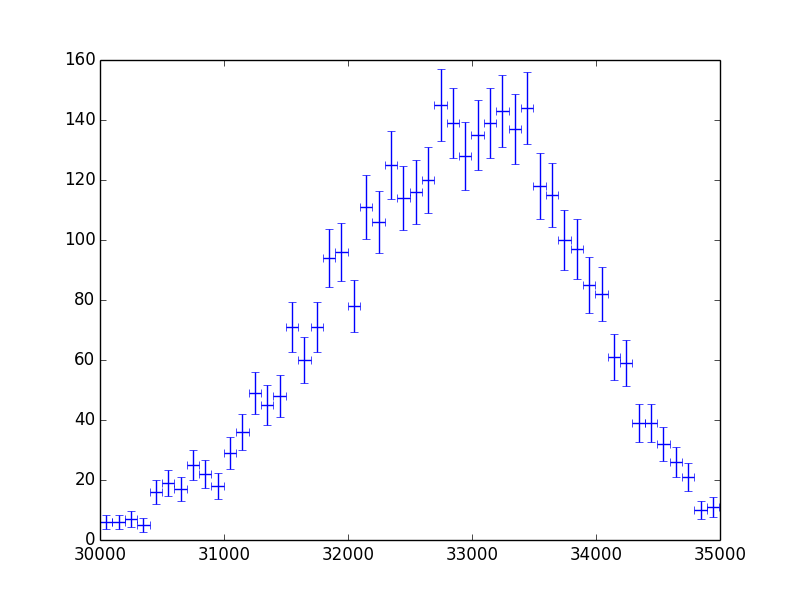
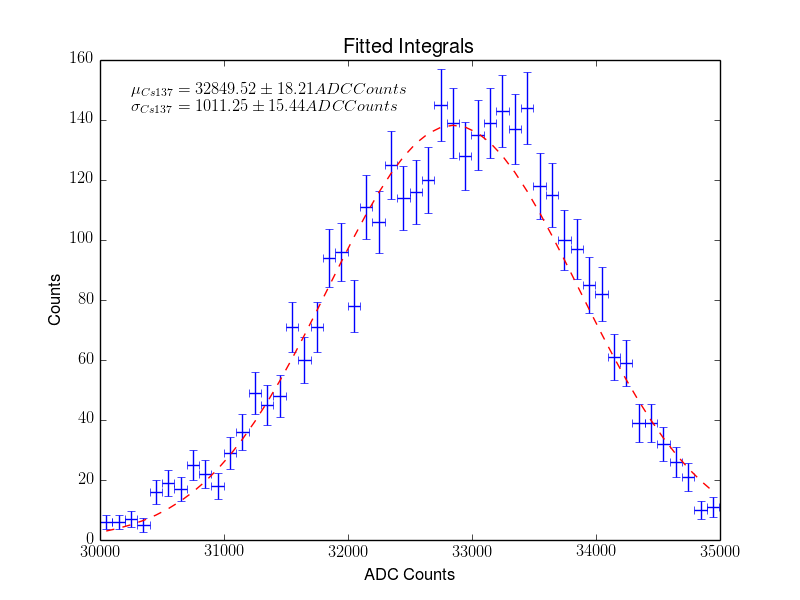
added labels to graph

diff --git a/final/fit_spectrum.py b/final/fit_spectrum.py
@@ -1,9 +1,10 @@
 #! usr/bin/python
 
-import matplotlib.pyplot as plt
 import pickle
 import numpy as np
-import emceeGaussFit2 as gfit
+import emceeGaussFit as gfit
+import matplotlib.pyplot as plt
+from matplotlib import rc
 
 ################################################################################
 ############################## PREPARING ARRAY #################################
@@ -27,13 +28,22 @@ yErrs = np.array([ x**0.5 for x in n ])
 # numbers based on looking at graph
 guess = (140, 33000, 879)
 a, mu, sigma, a_std, mu_std, sigma_std = gfit.getStats(guess, binMids, n, yErrs)
-print(a, mu, sigma)
-print(a_std, mu_std, sigma_std)
+gauss = gfit.gauss((a, mu, sigma), binMids)
 
 ################################################################################
 ################################# PLOTTING #####################################
 
+resultsStr = ('$\mu_{Cs137}=%.2f\pm%.2f ADC Counts$\n$\sigma_{Cs137}='
+			  '%.2f\pm%.2f ADC Counts$'%(mu, mu_std, sigma, sigma_std))
 plt.figure(1)
-plt.subplot(111)
-plt.errorbar(binMids, n, fmt=' ',xerr = binWidth, yerr = yErrs)
+plt.rc('font',**{'family':'sans-serif','sans-serif':['Helvetica']})
+plt.rc('text', usetex=True)
+fig, ax = plt.subplots(1)
+ax.errorbar(binMids, n, fmt=' ',xerr = binWidth, yerr = yErrs)
+ax.plot(binMids, gauss, 'r--')
+ax.set_title('Fitted Integrals')
+ax.set_xlabel('ADC Counts')
+ax.set_ylabel('Counts')
+ax.text(0.05, 0.95, resultsStr, transform=ax.transAxes, fontsize=12,
+        verticalalignment='top')
 plt.savefig('integral_plt.png')
